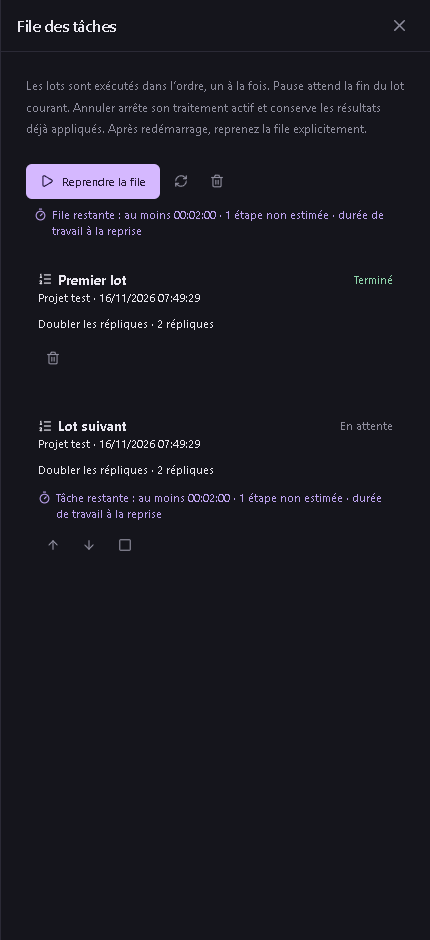
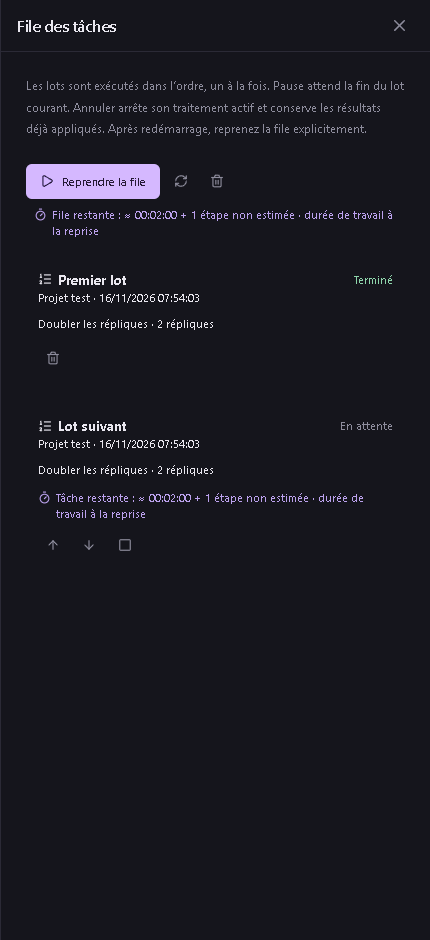
Qualify whole-batch and queue ETA in packaged Windows desktop

diff --git a/tests/e2e/work-estimate.pw.ts b/tests/e2e/work-estimate.pw.ts
@@ -40,7 +40,7 @@ test('whole batch countdown keeps future takes, recalibrates, freezes on pause a
   await page.clock.fastForward(10000);
   await expect(eta).toContainText('00:02:20');
   await page.clock.fastForward(55000);
-  await expect(eta).toContainText('au moins 00:01:30 · 1 étape non estimée');
+  await expect(eta).toContainText('≈ 00:01:30 + 1 étape non estimée');
   await expect(eta).toContainText('plus longue que prévu');
   // New successful measurements revise future costs instead of counting time twice.
   await emit({
@@ -144,7 +144,7 @@ test('queue displays whole and per-workflow estimates, partial learning and paus
     .click();
   const panel = page.getByRole('dialog', { name: 'File des tâches', exact: true }),
     eta = panel.locator('.work-estimate-queue');
-  await expect(eta).toContainText('File restante : au moins 00:03:30 · 1 étape non estimée');
+  await expect(eta).toContainText('File restante : ≈ 00:03:30 + 1 étape non estimée');
   await page.clock.fastForward(10000);
   await expect(eta).toContainText('00:03:20');
   await panel.getByRole('button', { name: 'Pause après le lot courant', exact: true }).click();
@@ -162,7 +162,7 @@ test('queue displays whole and per-workflow estimates, partial learning and paus
     q.workEstimate = q.entries[1].workEstimate;
     w.__setWorkflowQueue(q);
   });
-  await expect(eta).toContainText('File restante : au moins 00:02:00');
+  await expect(eta).toContainText('File restante : ≈ 00:02:00');
   await page.clock.fastForward(120000);
   await expect(eta).toContainText('00:02:00');
   await expect(eta).toContainText('à la reprise');

diff --git a/src-tauri/src/tts_batch_estimate.rs b/src-tauri/src/tts_batch_estimate.rs
@@ -29,7 +29,7 @@ pub(super) fn remaining(
     let mut history = History::new(p);
     let mut result = Forecast::default();
     let mut loaded = warm;
-    for (index, item) in request
+    for (index, _) in request
         .items
         .iter()
         .enumerate()

diff --git a/docs/GENERATION-TIMING.md b/docs/GENERATION-TIMING.md
@@ -1,4 +1,4 @@
-# Durée des essais et estimation — v0.52.0
+# Durée des essais et estimation — v0.53.0
 
 ## Durée conservée avec chaque nouvel essai
 
@@ -18,7 +18,7 @@ Le temps restant estimé apparaît à côté de la durée écoulée, dans le pan
 
 ![Estimation restante en direct](screenshots/generation-eta-fr.png)
 
-L’estimation concerne **l’essai ou l’étape en cours**, y compris pendant un lot. Elle ne représente pas la durée restante de tout le lot ni celle de la file d’attente. L’infobulle le précise.
+L’estimation concerne **l’essai ou l’étape en cours**, y compris pendant un lot. Les nouveaux totaux décrits ci-dessous complètent cette estimation par étape.
 
 La calibration utilise jusqu’à cinq mesures de taille proche, parmi les 512 générations les plus récentes du projet. Elle sépare le moteur, le périphérique demandé, la langue et les réglages de génération, ainsi que les démarrages à froid et le modèle déjà chargé dans un lot. Pour le TTS, la taille du texte et une catégorie de durée de référence servent à sélectionner des exemples comparables. Pour les transformations audio, la durée de l’audio source est utilisée. Une empreinte locale du PC, hachée dans la clé de comparaison, évite de réutiliser automatiquement les temps d’un autre ordinateur.
 
@@ -29,10 +29,31 @@ La calibration utilise jusqu’à cinq mesures de taille proche, parmi les 512 g
 
 La mémoire disponible, les autres applications, la référence et la variabilité du moteur peuvent modifier le temps réel. Le premier essai d’une configuration n’a donc pas nécessairement d’estimation, et le premier essai avec un modèle déjà chargé peut devoir attendre sa propre mesure de calibration.
 
+## Total du doublage par lot et de la file — v0.53.0
+
+Le panneau de doublage et les traitements affichent **Lot restant** pour l’ensemble des essais encore à exécuter. Chaque essai compte : quatre essais sur dix répliques représentent quarante opérations. Les essais terminés, échoués ou ignorés sont retirés du reste à faire ; une relance repart de ses opérations inachevées. Le premier chargement et le modèle conservé en mémoire ont des mesures distinctes, y compris pour les moteurs GGUF. Après une erreur ayant déchargé le modèle, le prochain départ est recalculé à froid.
+
+![Total du lot](screenshots/batch-eta-fr.png)
+
+Dans **File des tâches**, **File restante** additionne le travail du lot actif et des tâches en attente. Chaque tâche possède aussi son propre total. Le décompte utilise seulement le temps de l’opération active : lorsqu’un essai dépasse sa prévision, il ne consomme pas artificiellement la durée des essais futurs. Les coûts sont recalibrés après chaque nouvel essai ; la file s’actualise toutes les deux secondes tant qu’elle contient du travail, sans lire les fichiers audio ni réécrire son journal pour ces rafraîchissements.
+
+![Total de la file](screenshots/queue-eta-fr.png)
+
+- **≈ 00:03:00** : toutes les opérations prévues disposent d’une estimation comparable.
+- **≈ 00:03:00 + 2 étapes non estimées** : seule la partie connue est chiffrée ; ce n’est pas une prévision complète du total.
+- **Estimation indisponible** : aucune mesure comparable ne chiffre encore le travail restant. Le premier lot apprend au fur et à mesure.
+- **Étape en cours plus longue que prévu** : le traitement continue et le total devient partiel tant que cette étape n’est pas terminée.
+
+Les chaînes **isoler puis doubler** comptent aussi les séparations encore à effectuer. Elles utilisent les temps de séparations locales réussies, avec le même outil, périphérique, fenêtre et une durée proche ; elles ne réutilisent pas les temps du TTS. Si la future piste Voix n’existe pas encore, le doublage reste non estimé jusqu’au lancement de son lot réel. Les durées d’application finale, de libération du modèle et les autres tâches non calibrées peuvent ajouter un peu de temps ; l’interface signale la finalisation.
+
+Il s’agit du **temps de travail estimé**, pas d’une heure de fin garantie. Pause attend toujours la fin du lot actif : celui-ci continue à décompter, puis les durées en attente restent fixes jusqu’à la reprise. Les délais d’une pause, d’une attente de ressources ou de l’ouverture manuelle d’un autre projet ne sont pas prévisibles. Une tâche indépendante déjà active est incluse dans l’attente de la file, ou signalée comme non estimée.
+
+Les futurs lots utilisent leur sélection figée et les mesures de leur projet ouvert. Pour un autre projet, ils conservent la prévision disponible au moment de l’ajout. Un futur lot sans forçage peut encore ignorer des essais devenus disponibles grâce à un lot précédent ; son plan réel est recalculé au lancement. Les journaux de file antérieurs à v0.53 restent compatibles et affichent leurs opérations non estimées jusqu’à la reprise. Après redémarrage, la file reste en pause et les opérations interrompues ne décomptent pas le temps passé application fermée.
+
 ## Données et MCP
 
 Ces métadonnées facultatives ne changent pas le format audio ni les réglages de synthèse. Les projets existants restent compatibles ; aucun nouveau format projet n’est nécessaire. Le catalogue conserve **170 outils MCP / 33 schémas**.
 
-`studio_get_project` renvoie `generationTiming` sur les nouveaux essais : identifiant mesuré, opération, `elapsedMs`, taille d’entrée, indicateur `warmModel` et clé de comparaison hachée. `studio_list_jobs` expose l’estimation de l’opération active, son nombre d’exemples et le point de départ dans le chronomètre global. Ces champs sont absents des anciens enregistrements.
+`studio_get_project` renvoie `generationTiming` sur les nouveaux essais : identifiant mesuré, opération, `elapsedMs`, taille d’entrée, indicateur `warmModel` et clé de comparaison hachée. `studio_list_jobs` expose l’estimation de l’opération active, son nombre d’exemples et le point de départ dans le chronomètre global. Ces champs sont absents des anciens enregistrements. En v0.53, `studio_list_jobs` fournit aussi `workEstimate` pour le lot entier. `studio_task_queue_status` expose `workEstimate` sur la file et chaque tâche : durée et compte des opérations futures connues/inconnues, plus l’identifiant et le point de départ de l’opération active. Les entrées terminées ne participent plus au total. Ces lectures ne lancent aucun traitement.
 
 Les tests natifs exécutent un vrai worker de protocole et vérifient la mesure, la réouverture et l’utilisation de l’historique. Le diagnostic du portable utilise le SDK MCP officiel, une valeur de test explicite et un redémarrage réel pour vérifier la persistance, le rejet de mesures invalides et les empreintes des WAV et de la vidéo. Ces contrôles ne réévaluent pas la qualité ou la vitesse des modèles neuronaux, dont les moteurs restent inchangés. Les captures d’interface utilisent des données de test.

diff --git a/docs/MCP.md b/docs/MCP.md
@@ -1,6 +1,6 @@
 # Piloter le studio avec une IA via MCP
 
-Le studio fournit **170 outils MCP** en v0.52.0 : 135 commandes natives et 35 commandes d’édition, d’état et de lecture, avec **33 schémas partagés**. Le serveur utilise **stdio** et le même exécutable que l’application. Cette intégration pilote **l’application ouverte** ; aucun environnement Node.js ou Python supplémentaire n’est requis pour la connexion.
+Le studio fournit **170 outils MCP** en v0.53.0 : 135 commandes natives et 35 commandes d’édition, d’état et de lecture, avec **33 schémas partagés**. Le serveur utilise **stdio** et le même exécutable que l’application. Cette intégration pilote **l’application ouverte** ; aucun environnement Node.js ou Python supplémentaire n’est requis pour la connexion.
 
 ## Nouveaux moteurs natifs
 
@@ -140,3 +140,5 @@ Le studio démarre sur l’accueil, sans rouvrir automatiquement le dernier proj
 `studio_get_project` conserve `generationTiming` sur les essais mesurés : `takeId`, `operation` (`tts`, `voiceConversion` ou `prosody`), `elapsedMs`, `inputUnits`, `warmModel` et `contextKey`. Une mesure ne s’applique qu’à l’essai dont l’identifiant correspond à `takeId`. Les champs sont facultatifs pour les anciennes données et les valeurs invalides sont refusées.
 
 `studio_list_jobs` expose `estimate` pendant une création : opération, `estimatedMs` (ou `null` sans historique), `baselineElapsedMs` et `sampleCount`. Le temps restant se calcule avec le temps actif de l’opération, pas avec tout le temps déjà passé dans un lot. L’estimation concerne l’essai/étape en cours. Les démarrages à froid et les modèles conservés en lot ont des calibrations séparées. [Guide](GENERATION-TIMING.md). Aucun nouvel outil : 170 outils / 33 schémas.
+
+Whole-batch and FIFO estimates: `studio_list_jobs` includes optional `workEstimate` on active TTS batches. `studio_task_queue_status` includes it on the queue and each pending/running entry: `pendingMs`, `pendingKnown`, `pendingUnknown`, and optional `active` (`jobId`, `estimatedMs`, `baselineElapsedMs`). Subtract only that active job’s execution elapsed time beyond the baseline; never subtract elapsed time from future operations. Unknown steps and active overruns make the forecast partial. Queue polling is read-only; paused waiting time has no predicted duration. Existing 170 tools and 33 schemas remain available.

diff --git a/README.fr.md b/README.fr.md
@@ -1,5 +1,9 @@
 # AI Dubbing Studio
 
+## v0.53.0 — Temps restant du lot et de la file
+
+Les lots et la file affichent une estimation globale, recalibrée après chaque essai. Les 1 à 4 essais par réplique, modèles à froid/déjà chargés et séparations sont comptés ; les parties sans historique restent explicites. [Guide et captures](docs/GENERATION-TIMING.md).
+
 ## v0.52.0 — Durées des essais et temps restant estimé
 
 Chaque nouvel essai conserve le temps de calcul de sa génération TTS, de son changement de timbre ou de son transfert d’intonation. Affichage dans les essais, conservation après redémarrage et estimation indicative de l’essai/étape en cours à partir de mesures comparables sur le même PC. Chargement initial et modèle conservé en lot sont séparés ; les durées anciennes restent inconnues. Sources et essais préservés. [Guide et captures](docs/GENERATION-TIMING.md).

diff --git a/README.md b/README.md
@@ -1,5 +1,9 @@
 # AI Dubbing Studio
 
+## v0.53.0 — Whole-batch and queue remaining time
+
+Batches and FIFO workflows show total remaining-work estimates, recalibrated after every take. Counts 1–4 takes per line, cold/resident models and separation steps; missing history remains explicit. [Guide and screenshots](docs/GENERATION-TIMING.md).
+
 ## v0.52.0 — Saved take durations and live generation estimates
 
 Each new take saves the computation time for TTS, timbre conversion or prosody transfer. Take cards retain this after restart; ongoing steps show an approximate remaining time based on comparable measurements on the same computer. Cold starts and resident batch models stay separate. Historical unknown durations are not invented; previous takes and sources remain intact. [Guide and screenshots](docs/GENERATION-TIMING.md).
